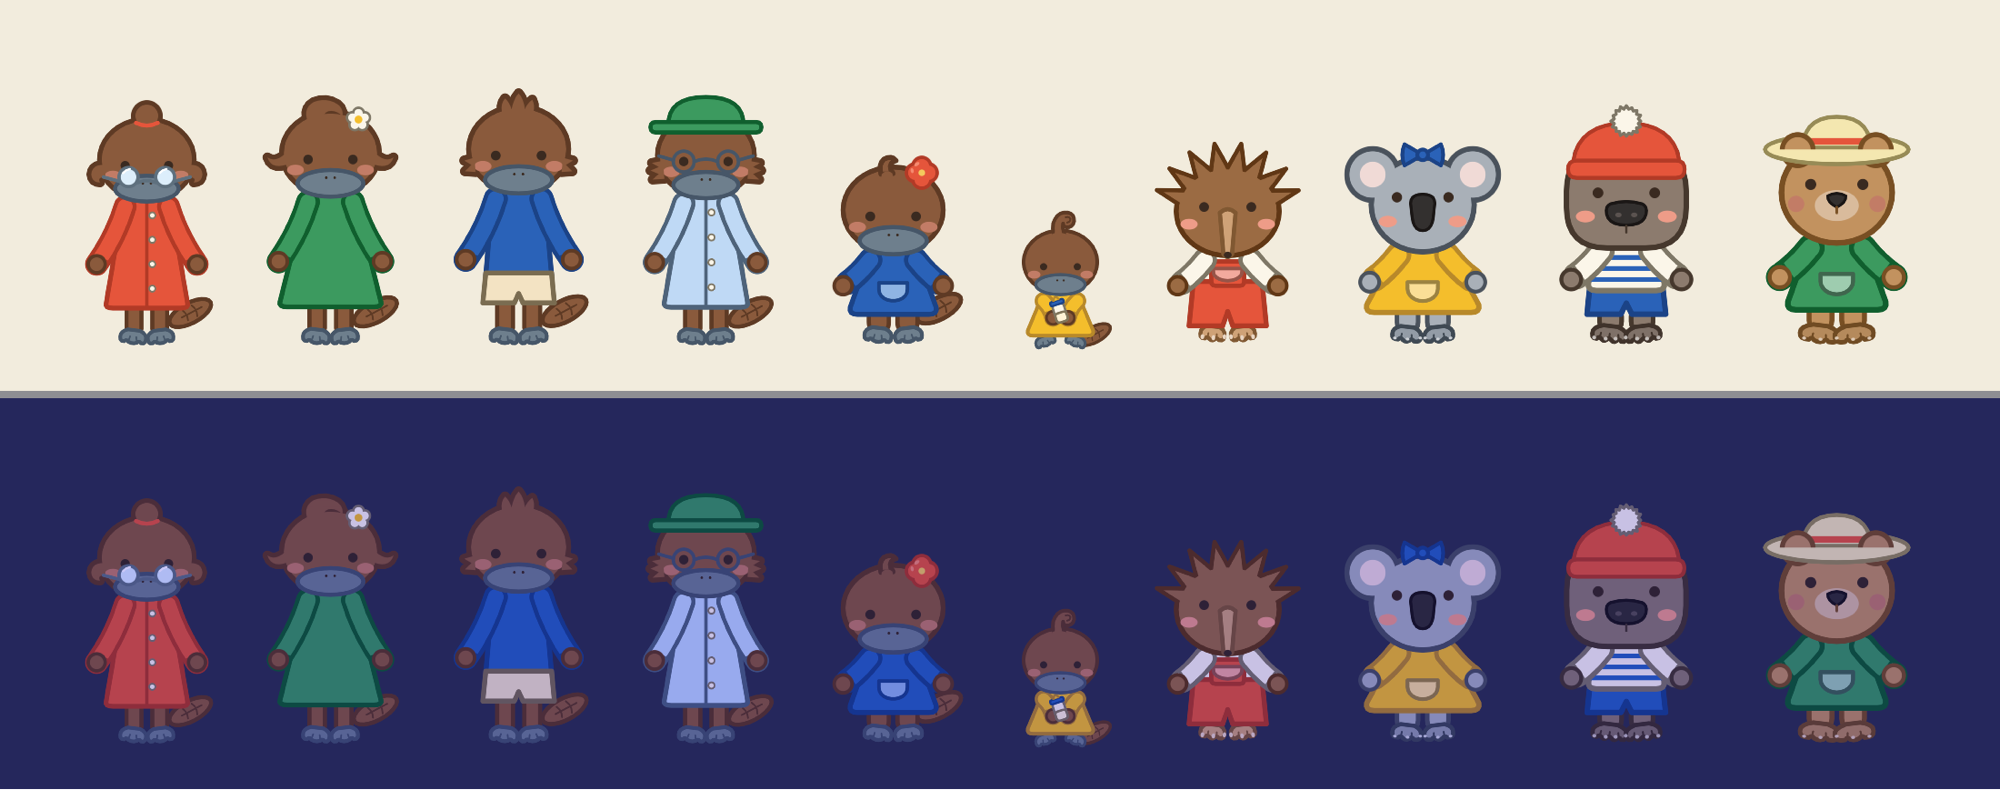
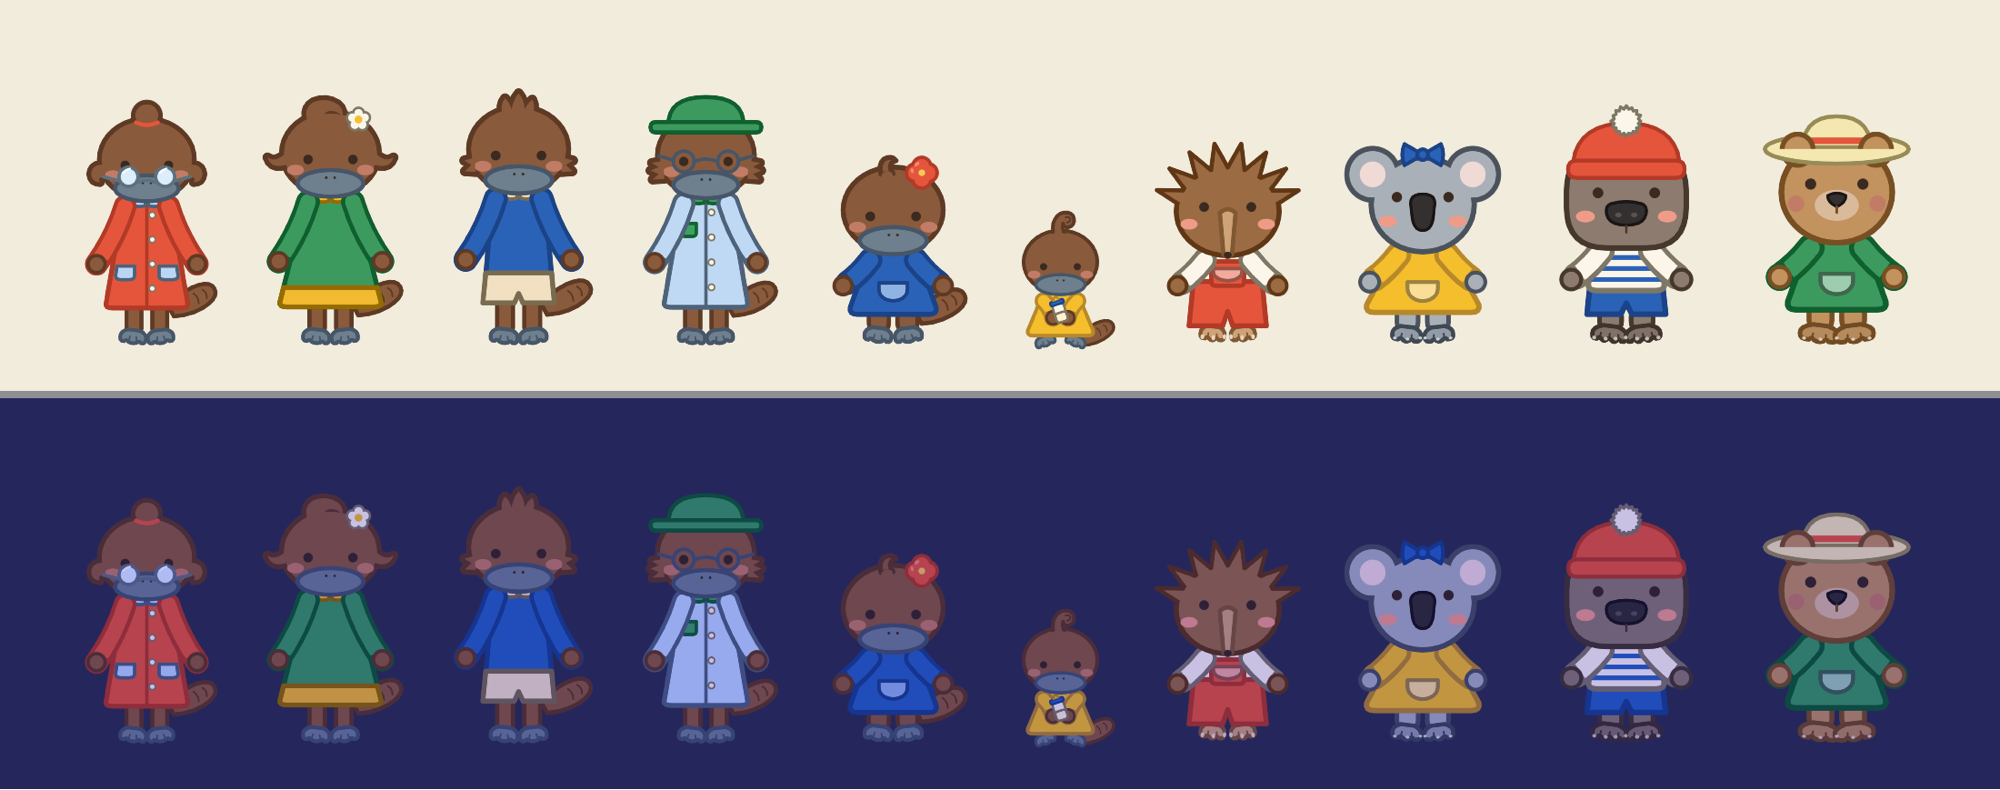
Platypus tails: a paddle that grows from behind the body

diff --git a/app/tools/make_cast_rigs.py b/app/tools/make_cast_rigs.py
@@ -807,6 +807,33 @@ def finish_hats(name, parts):
         parts[at:at] = through
     return parts
 
+
+# The platypus tail (Tom, 14 November 2026). It was an oval lying beside the legs with a line down its
+# middle, which read as a leaf, and on the grown-ups it floated clear of the body. A platypus has a broad
+# flat paddle: narrow where it leaves the body, wide and round at the end. Its base is tucked well in
+# behind the body, so it always grows out of them, and it has two short ridges across it and no midline.
+def paddle(bx, by, angle=-28.0, long=66.0):
+    a = math.radians(angle)
+    ax, ay, nx, ny = math.cos(a), math.sin(a), -math.sin(a), math.cos(a)
+    def at(t, w): return f'{bx + t * ax + w * nx:.1f} {by + t * ay + w * ny:.1f}'
+    k = long / 66.0
+    outline = (f'M{at(0, -8)} Q{at(20 * k, -18)} {at(40 * k, -17)} Q{at(66 * k, -15)} {at(66 * k, 0)} '
+               f'Q{at(66 * k, 15)} {at(40 * k, 17)} Q{at(20 * k, 18)} {at(0, 8)} Z')
+    ridges = f'M{at(38 * k, -8)} Q{at(42 * k, 0)} {at(38 * k, 8)} M{at(51 * k, -7)} Q{at(55 * k, 0)} {at(51 * k, 7)}'
+    return outline, ridges
+
+def regrow_tail(parts, grown):
+    tail = next((p for p in parts if p['id'] == 'tail'), None)
+    if not tail: return parts
+    oval = tail['shapes'][0]
+    # Where the oval's near end was, and further in behind the body; a grown-up's sits higher, at the hip.
+    bx, by = oval['x'] - 28, oval['y'] + 14 - (16 if grown else 0)
+    outline, ridges = paddle(bx, by, long=72.0)
+    tail['shapes'] = [{'kind': 'path', 'd': outline, 'fill': oval['fill'], 'stroke': oval['stroke'], 'tint': oval.get('tint'), 'width': oval['width']},
+                      {'kind': 'path', 'd': ridges, 'stroke': oval.get('tint') or INK, 'width': 2.5, 'cap': 'round'}]
+    tail['pivot'] = [round(bx + 6, 1), round(by - 3, 1)]
+    return parts
+
 def build(name, svg, height, about, shade, moves, puggle):
     grown = height > 400
     if grown:
@@ -943,6 +970,7 @@ def build(name, svg, height, about, shade, moves, puggle):
             x, y, r = eye['x'], eye['y'], eye['rx'] + 1.2
             closed.append({'kind': 'path', 'd': f'M{x - r:g} {y - 1:g} Q{x:g} {y + r - 1:g} {x + r:g} {y - 1:g}', 'stroke': INK, 'width': 4.5, 'cap': 'round'})
         parts.append({'id': 'eyes-closed', 'parent': 'head', 'pivot': [120, 110], 'when': 'eyes=closed', 'shapes': closed})
+    parts = regrow_tail(parts, grown)
     parts = join_to_head(name, parts)
     parts = grow_hair(name, parts)
     parts = dress_for_weather(name, parts, puggle, shade)

diff --git a/docs/baby-tracker-spec.md b/docs/baby-tracker-spec.md
@@ -562,6 +562,7 @@ Two tiers, confirmed by Tom: **line icons with one accent in the app; full-colou
 - **Clothes for the grown-ups (Tom, 2026-11-14, built).** Each of Mum, Dad, Nan and Pop has three outfits, and every outfit is two colours: the garment's own and a trim that contrasts with it, as their weather things do. **Mum:** a dress with a collar and a band at the hem; a top and a skirt; a top tucked into trousers. **Dad:** a shirt and shorts; a striped jumper over trousers; a tee under overalls. **Nan:** her cardigan with a collar and pockets; a dress under an apron; a jumper and a skirt. **Pop:** his cardigan with a collar and a breast pocket; a shirt under a waistcoat; a jumper with diamonds. Each outfit comes in four colour pairs (for example Mum: gum with wattle, waratah with sky, wattle with harbour, harbour with shell), so twelve looks each. Drawn in `dressed` in `app/tools/make_cast_rigs.py`; the pairs are `PAIRS`; rigs are `mum-skirt`, `mum-trousers`, `dad-jumper`, `dad-overalls`, `nan-apron`, `nan-skirt`, `pop-waistcoat`, `pop-jumper`. Which they wear is picked by the day, as for the friends. Trousers are drawn with the body, so they do not swing with the legs in a walk. Sheets: `docs/previews/grown-ups-wardrobe.png`, `cast-wardrobe.png`.
 - **Umbrellas and rain hats (Tom, 2026-11-14, built).** **An umbrella's canopy is the last thing drawn**, in front of hair, ears, spines, bows and hats, at its full shape: it covers their tops and is not flattened to clear them (`umbrella-top`, a child of `umbrella`, whose shaft still passes behind the head). The umbrella has a slim metal shaft and a wooden handle that hooks round below the hand, and the hand is drawn again over the shaft so it is held. **Pop wears the same yellow rain hat as everyone else in a raincoat**; his bucket hat is now its own part (`hat`) and comes off in the rain. **Raincoats and rain hats stay yellow for everyone:** yellow is what says rain at a glance, and it matches Puggle's. Umbrellas stay in each character's own colour. **Nan's hair** is a sheet of options, not built: the bun (now), a set of curls, a soft roll, a wave to one side, a plait round her head. Sheets: `docs/previews/weather-clothes.png`, `nan-hair.png`.
 - **How an umbrella is held (Tom, 2026-11-14, built).** The umbrella stands straight up, at one height and one size for everyone, and **all of it is in front of the character**: shaft, handle and canopy are the last things drawn, over the head, ears, spines, bows and hats. So the shaft does not cross the face, it stands beside it, and the arm changes: with the umbrella up, a second right arm (`arm-right-hold`) is shown, raised with the fist up beside the cheek, so only a short length of shaft shows below the canopy, and the usual arm is hidden. Heads sit at one height in every drawing, so the fist is at the same height against the face for grown-ups and children. The wooden handle is short and hooks round just below the fist. The canopy is full size and centred on the shaft, so it reaches past the character's side; these four rigs carry `sideroom`, and `CastView` draws them on a wider surface without changing where they stand or how much room they take. The canopy has three ribs, fine lines in a darker shade of its own colour from the tip to each point where two scallops meet. They cannot wave with that arm while holding it.
+- **The platypus tail, redrawn (Tom, 2026-11-14, built).** The tail was an oval lying beside the legs with a line down its middle and two across: it read as a leaf, and on the grown-ups it floated clear of the body (Dad's hung beside his knees). It is now a **paddle**: narrow where it leaves the body, broad and round at the end, with two short ridges across and no midline. Its base is tucked in behind the body, so it always grows out of them, and a grown-up's sits at the hip. The same shape for Puggle, Pebble, Mum, Dad, Nan and Pop (`paddle` and `regrow_tail` in `app/tools/make_cast_rigs.py`; Puggle's is in `puggle.rig.json`). Its pivot moved to the new base. Sheet: `docs/previews/platypus-tails.png`.
 - **Wallpapers and books, second version** (Brand page). Wallpapers: two lock-screen scenes (Morning, Bedtime) with the sky left clear for the clock, plus three repeats: round sticker badges of the cast over a gum-leaf and quatrefoil line pattern, a one-colour line repeat (prints as one screen), and a single-character brick repeat with a soft shadow. Books: covers are the scenes (Puggle at the Beach; Night Night, Puggle; Puggle and the Big Puddle; Puggle Goes to Nan's), title in the scene's sky colour, series name at the foot, Ink spine; spreads are words left, picture right. First versions are on the Archive page.
 - **Animal Crossing wallpaper references (Tom, 2026-11-10).** Ideas taken: sticker heads with a coloured edge over a house-motif line pattern; one-colour line repeats; one character tiled with a soft shadow; a quiet screen with a small scene at the bottom; soft star sprinkles. Not taken: any Nintendo character, the leaf mark, or their colours. Our motifs are the gum leaf and the quatrefoil. A second batch (Mario, Pikmin and Animal Crossing wallpapers) added three more: **tone on tone** (the activity icons as a one-colour pattern with the cast in front), **the parade** (everyone in a row along the bottom, a faint motif grid above, bushes in front) and **night lines** (the activity icons as line drawings on night blue). Lessons: leave room; tone on tone; one motif family (gum leaf, quatrefoil, activity icons); the same drawings work as line or as flat shapes.
 - **Motion studies for Rive** (canvas: Characters page; sources in `design/canvas/gen/motion.py`). Looping SVG sketches, to be rebuilt in the Rive editor. Puggle: **Idle** (breath, blink every 4 s on its own layer, tail drift), **Wave** (greet), **Hooray** (squash, jump, land, quatrefoils pop), **Sleepy** (slow breath, nodding head, floating z), **Walk** (two key poses). State machine "Mood": triggers `greet` and `celebrate` return to Idle; booleans `asleep` and `walking`. Scenes get slow ambient loops (rising sun, twinkling stars, falling rain, falling confetti) with Puggle nested; Reduce Motion shows the still scene. Second pass added anticipation, squash and stretch about the feet, follow-through (tail, clip and head a beat late), idle one-offs (a glance, a tail flick), a falling-asleep transition and a four-key walk (contact, down, passing, up). Parts for import, with named groups: `design/rive/puggle-parts.svg`. The contract between the Rive file and the app (file, artboard, state machine and input names, timings, order of work) is `design/rive/README.md`; the app side is `PuggleView` and `PuggleController`.
